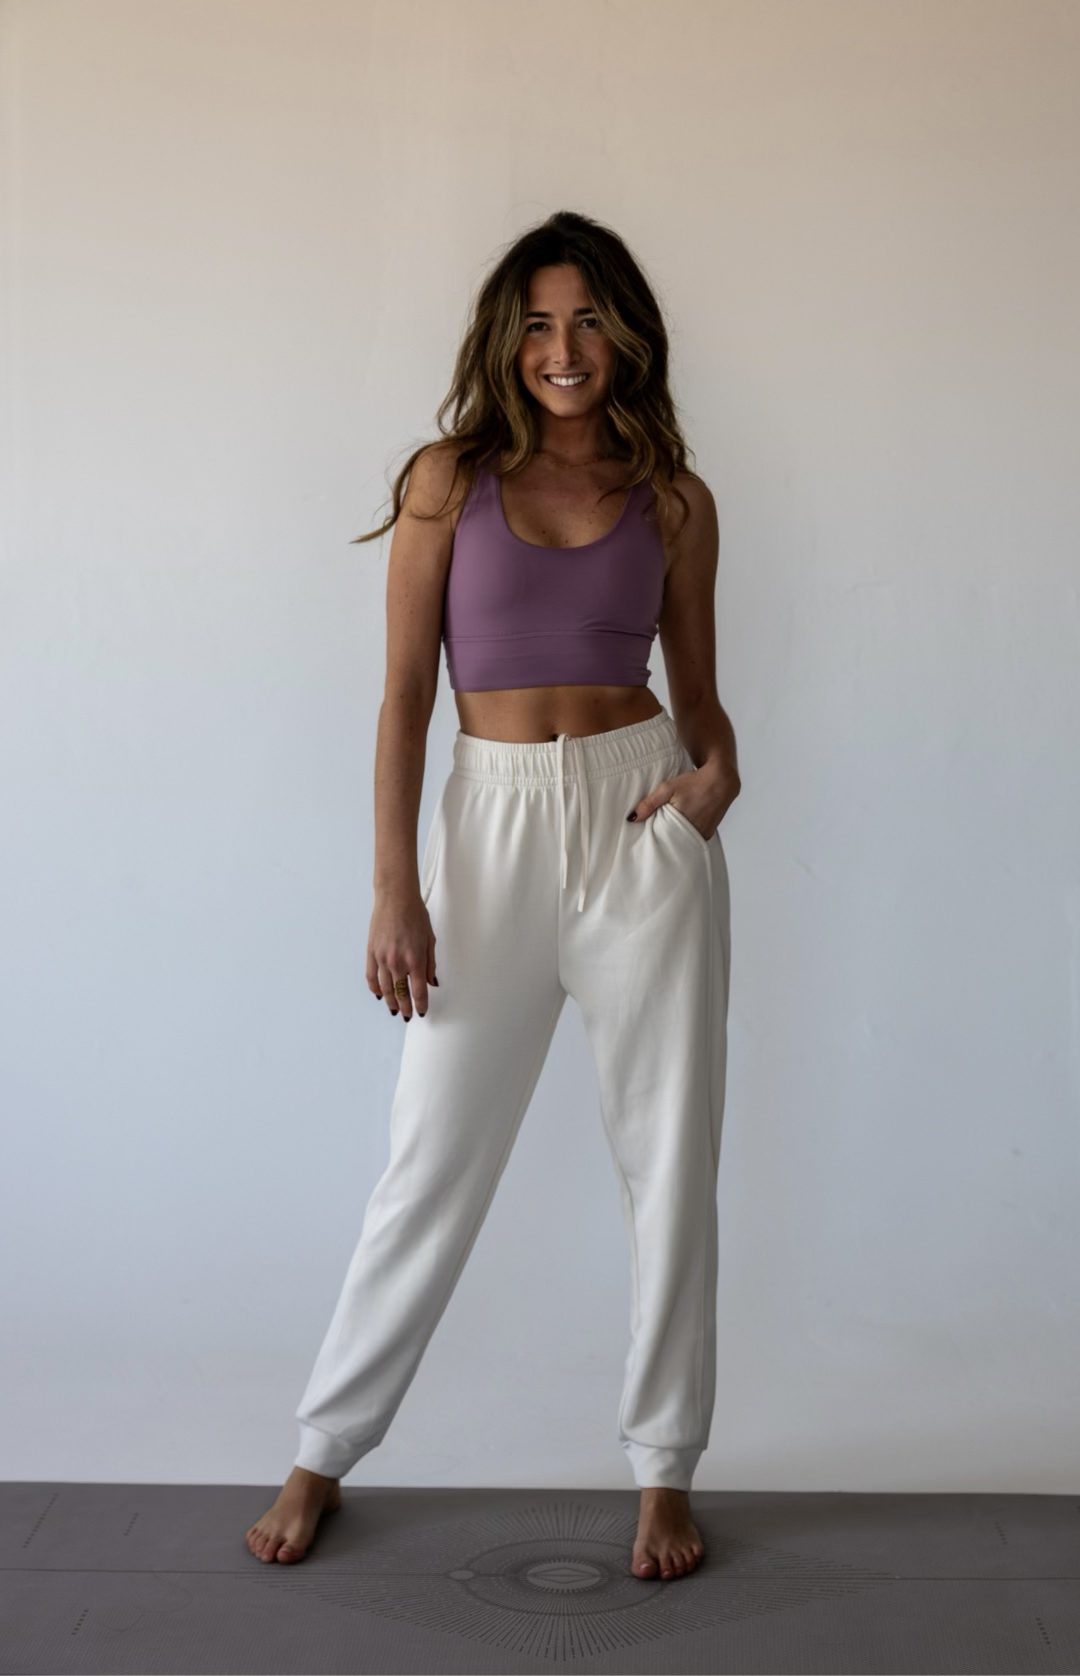
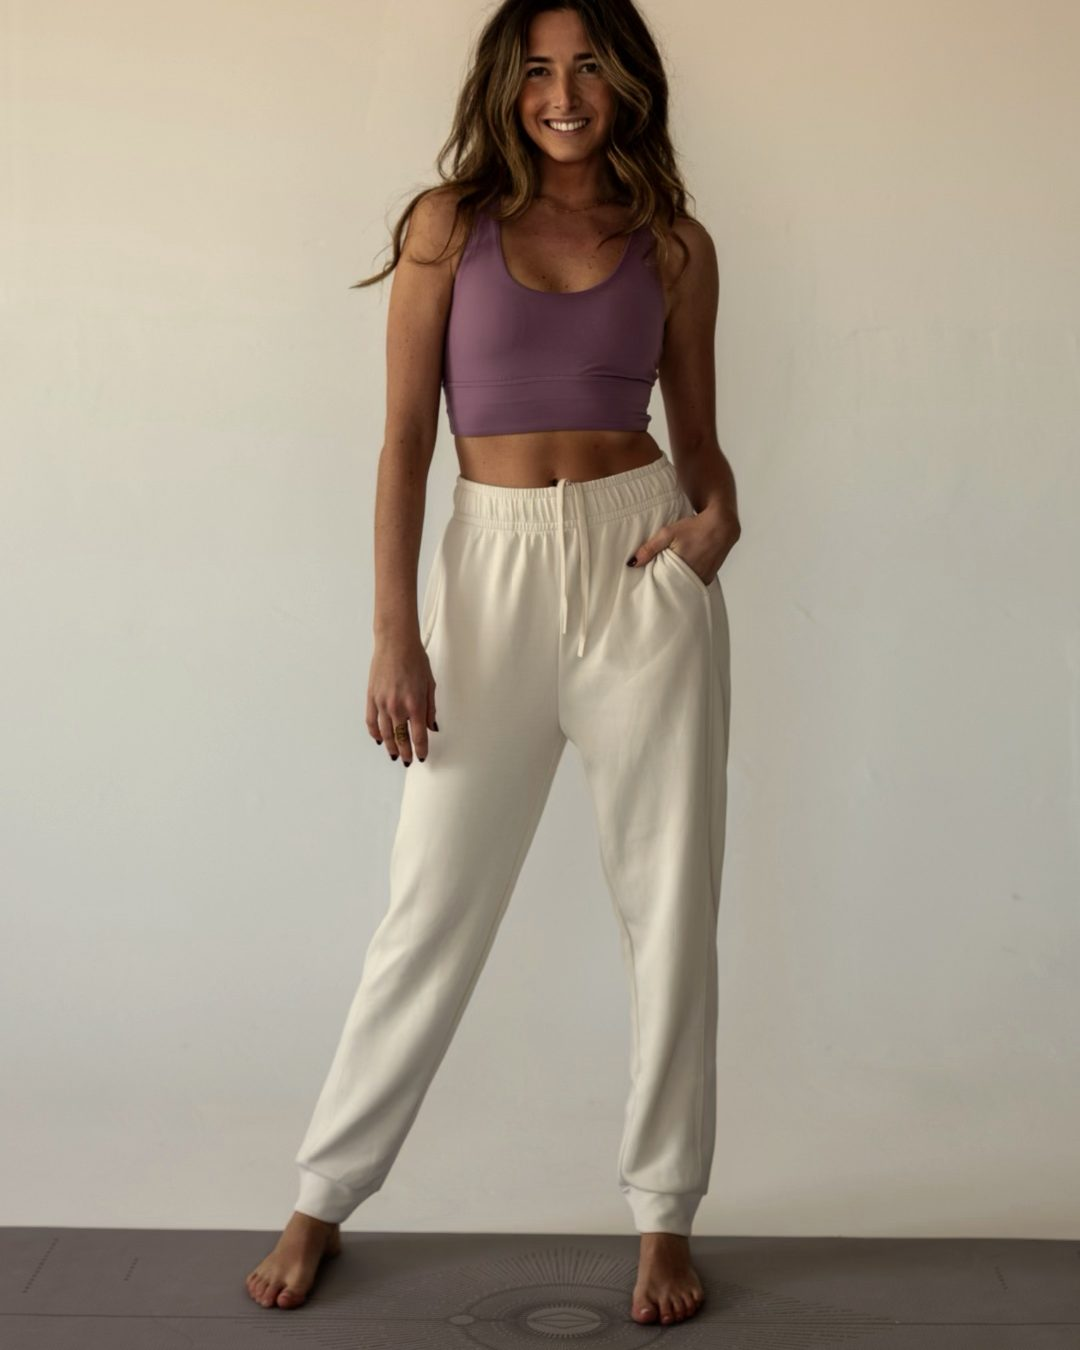
Foto de Mer: recorte 4:5 y tono cálido
Claude-Session: https://claude.ai/code/session_01J2hmr8FPrfZGk7KGGA9eg1

diff --git a/index.html b/index.html
@@ -165,7 +165,6 @@ details[open] .plus::after{transform:rotate(0)}
 .photo.wide{aspect-ratio:5/4}
 .photo{overflow:hidden}
 .photo img{width:100%;height:100%;object-fit:cover}
-.photo.portrait{aspect-ratio:2/3;object-position:50% 30%}
 .split p+p{margin-top:16px}
 .split .link{display:inline-block;margin-top:30px}
 .signature{font-family:var(--script);font-size:44px;color:var(--cacao);margin-top:22px;line-height:1}
@@ -529,7 +528,7 @@ footer a:hover{text-decoration:underline}
 <!-- ============ SOBRE MER ============ -->
 <section id="mer">
   <div class="wrap split">
-    <div class="photo portrait"><img src="img/mer.jpg" alt="Mer, fundadora de Mystika" width="1080" height="1676" loading="lazy"></div>
+    <div class="photo"><img src="img/mer.jpg" alt="Mer, fundadora de Mystika" width="1080" height="1350" loading="lazy"></div>
     <div>
       <p class="kicker">Sobre Mer</p>
       <h2>Esto no es solo un estudio.<br>Es mi historia.</h2>
